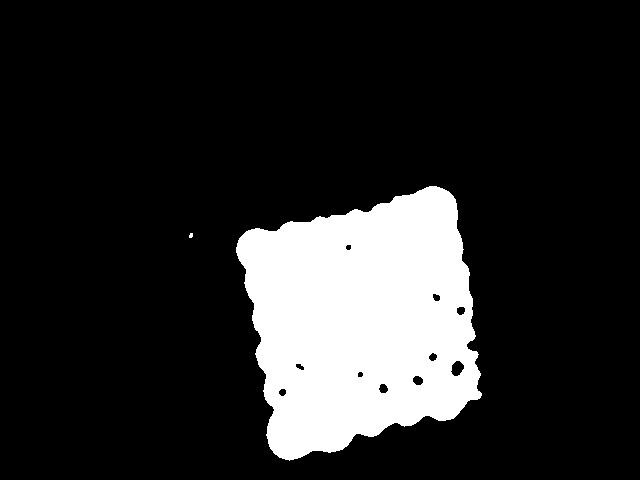
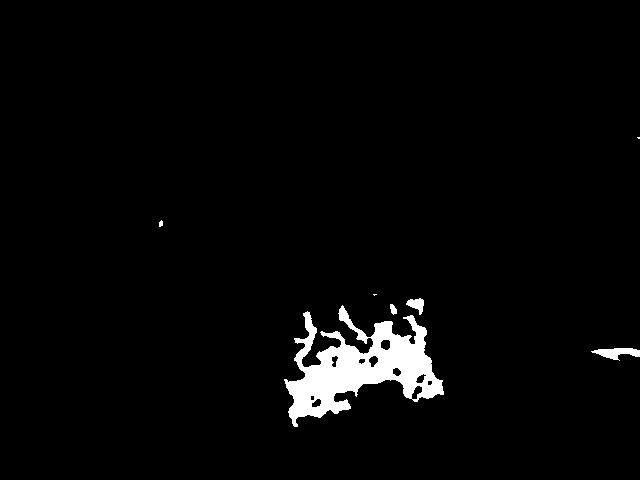
Ok First Test Is Complete - Next I will Add the Ultrasonic Distance Sensor

Changed region(s): [[0.3438, 0.375, 0.75, 0.9688], [0.9375, 0.7188, 1.0, 0.75]]

diff --git a/first_test.py b/first_test.py
@@ -1,0 +1,83 @@
+import RPi.GPIO as GPIO
+import time
+import argparse
+from picamera2 import Picamera2
+import cv2
+import numpy as np
+import math
+
+GPIO.setmode(GPIO.BOARD)
+r = 11
+g = 12
+b = 13
+r2 = 15
+g2 = 16
+b2 = 18
+GPIO.setup(r, GPIO.OUT)
+GPIO.setup(g, GPIO.OUT)
+GPIO.setup(b, GPIO.OUT)
+GPIO.setup(r2, GPIO.OUT)
+GPIO.setup(g2, GPIO.OUT)
+GPIO.setup(b2, GPIO.OUT)
+GPIO.output(r, GPIO.LOW)
+GPIO.output(g, GPIO.LOW)
+GPIO.output(b, GPIO.LOW)
+GPIO.output(r2, GPIO.LOW)
+GPIO.output(g2, GPIO.LOW)
+GPIO.output(b2, GPIO.LOW)
+#parser = argparse.ArgumentParser()
+#parser.add_argument("--tim", type = float, default = 8.5, help = "Time to Run")
+#parser.add_argument("--low", type=float, default=4, help="Lower Bound Duty Cycle")
+#parser.add_argument("--upp", type=float, default=10, help="Upper Bound Duty Cycle")
+#parser.add_argument("--debug", default = False, help="Enable debug mode")
+#args = parser.parse_args()
+
+#start_time = time.time()
+
+# Define pin, frequency and duty cycle
+blue = False
+PWM_pin   = 36 
+freq      = 45
+
+GPIO.setup(PWM_pin, GPIO.OUT)
+#elapsed = time.time() - start_time
+
+# Create PWM instance for pin w freqency
+pwm = GPIO.PWM(PWM_pin, freq) 
+pwm.start(7.0)
+time.sleep(10.0)
+
+pwm.ChangeDutyCycle(7.0)
+time.sleep(1.0)
+pwm.ChangeDutyCycle(11.5)
+time.sleep(2.0)
+camera = Picamera2()
+camera.start()
+camera.capture_file('first_test.jpg')
+pwm.ChangeDutyCycle(7.0)
+time.sleep(1.0)
+
+
+img = cv2.imread("mask_test.jpg")
+hsv = cv2.cvtColor(img, cv2.COLOR_BGR2HSV)
+mask = cv2.inRange(hsv, (95, 150, 150), (140, 255,255))
+cv2.imwrite('mask_.jpg', mask)
+mask_blur = cv2.blur(mask,(5,5))
+cv2.imwrite('mask_blur.jpg',mask_blur)
+thresh = cv2.threshold(mask_blur, 200, 255, cv2.THRESH_BINARY)[1]
+cv2.imwrite('blue_tape_thresh.jpg', thresh)
+
+M = cv2.moments(thresh)
+
+if (M["m00"] != 0.0):
+    blue = True
+
+if blue:
+    GPIO.output(r, GPIO.HIGH)
+    GPIO.output(r2, GPIO.HIGH)
+    time.sleep(2.0)
+    GPIO.output(r, GPIO.LOW)
+    GPIO.output(r2, GPIO.LOW)
+
+pwm.stop()
+GPIO.cleanup()

diff --git a/sound_test.py b/sound_test.py
@@ -4,6 +4,7 @@ import pygame
 
 pygame.mixer.init()
 pygame.mixer.music.load("Hot_Coffee.mp3")
+pygame.mixer.music.set_volume(1.0)
 GPIO.setmode(GPIO.BOARD)
 r = 11
 g = 12
@@ -25,26 +26,18 @@ GPIO.output(r2, GPIO.LOW)
 GPIO.output(g2, GPIO.LOW)
 GPIO.output(b2, GPIO.LOW)
 
-LED = False
-
-time.sleep(4)
-
 LED = True
 
 while LED:
     pygame.mixer.music.play(-1)
     GPIO.output(r, GPIO.HIGH)
-    GPIO.output(g, GPIO.HIGH)
     GPIO.output(r2, GPIO.HIGH)
-    GPIO.output(g2, GPIO.HIGH)
-    time.sleep(20)
+    time.sleep(60)
     LED = False
 
 pygame.mixer.music.stop()
 GPIO.output(r, GPIO.LOW)
-GPIO.output(g, GPIO.LOW)
 GPIO.output(r2, GPIO.LOW)
-GPIO.output(g2, GPIO.LOW)
 
 
 GPIO.cleanup()

diff --git a/practice.py b/practice.py
@@ -1,0 +1,12 @@
+import os
+os.environ['SDL_AUDIODRIVER'] = 'alsa'
+os.environ['AUDIODEV'] = 'hw:2,0'
+
+import pygame
+import time
+
+pygame.mixer.init()
+pygame.mixer.music.load("Hot_Coffee.mp3")
+#pygame.mixer.music.set_volume(1.0)
+pygame.mixer.music.play()
+time.sleep(10)

diff --git a/LED.py b/LED.py
@@ -6,6 +6,9 @@ GPIO.setmode(GPIO.BOARD)
 r = 11
 g = 12
 b = 13
+r2 = 15
+g2 = 16
+b2 = 18
 
 #Actual setup for the PI and starting them all as off
 GPIO.setup(r, GPIO.OUT)

diff --git a/testing_time.py b/testing_time.py
@@ -1,0 +1,6 @@
+import time
+
+time.sleep(1.0)
+print("Test")
+time.sleep(2.0)
+print(time.time())
